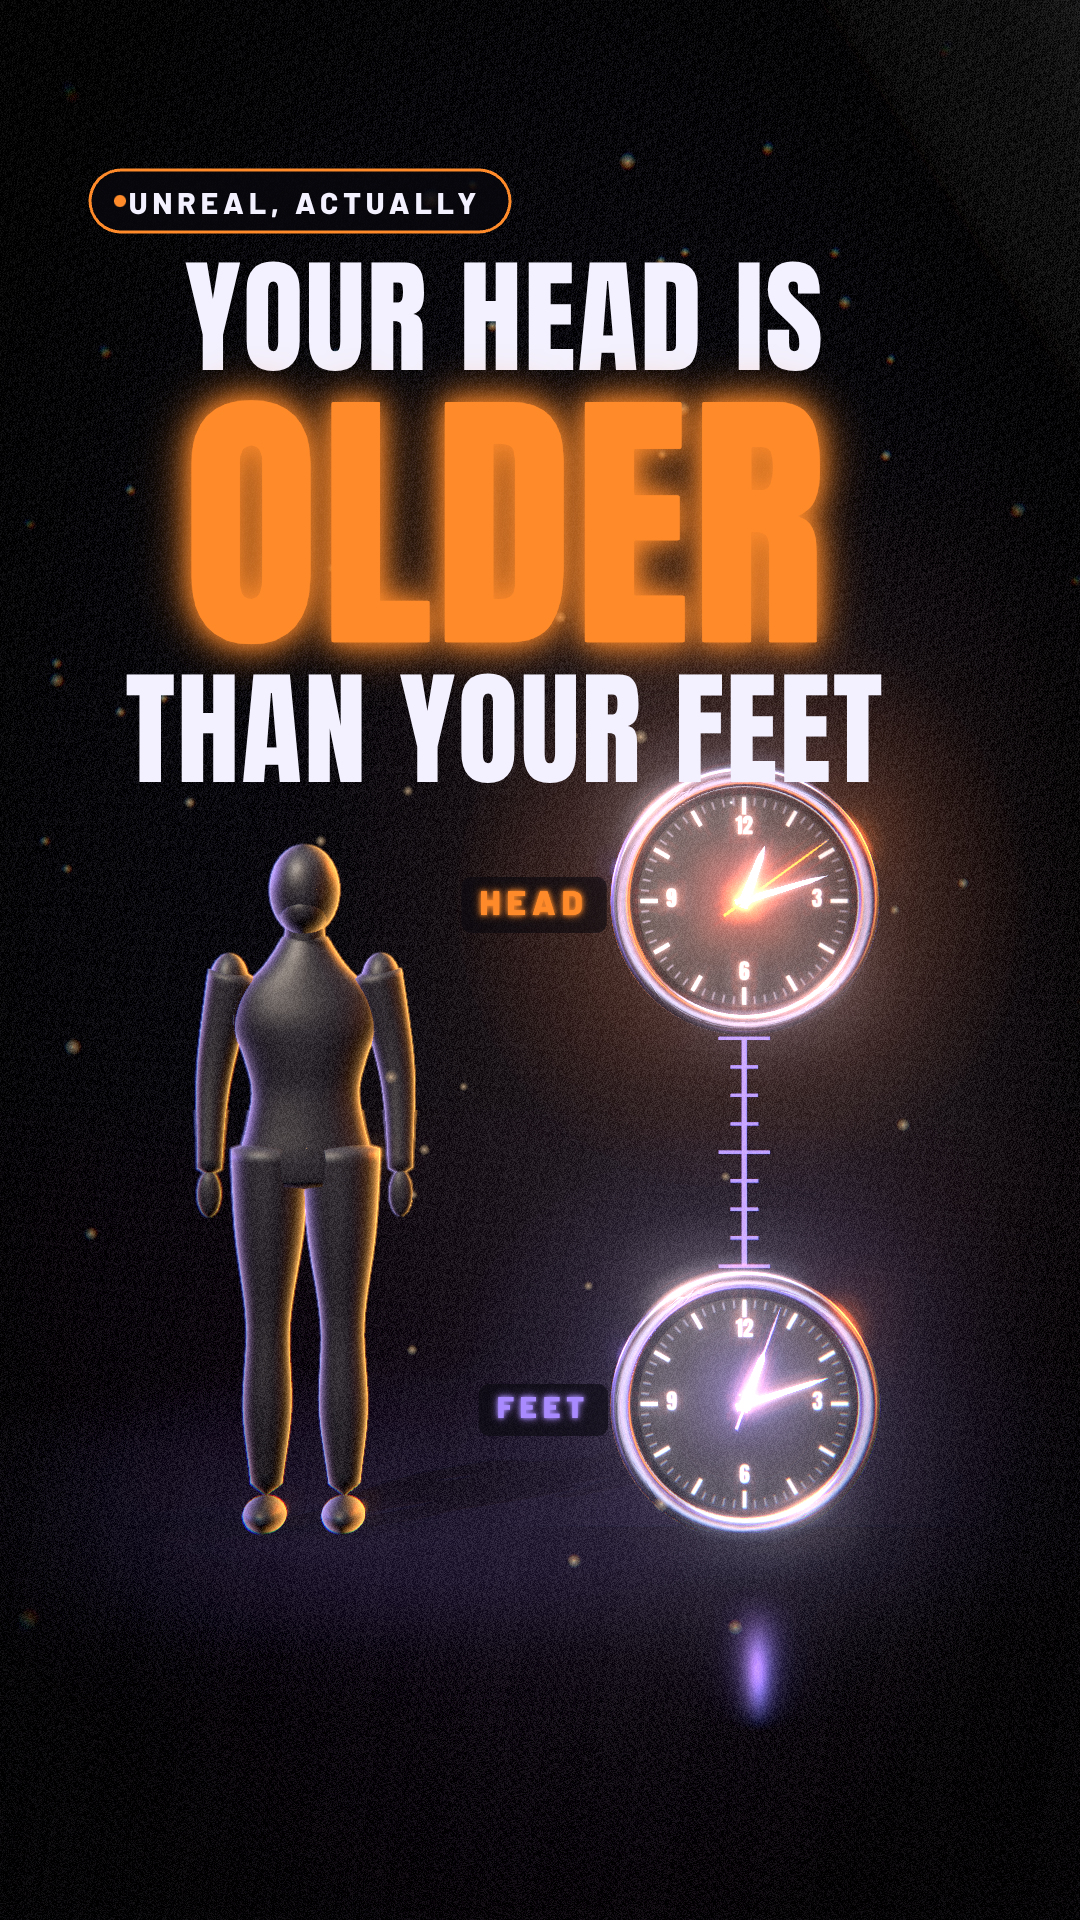
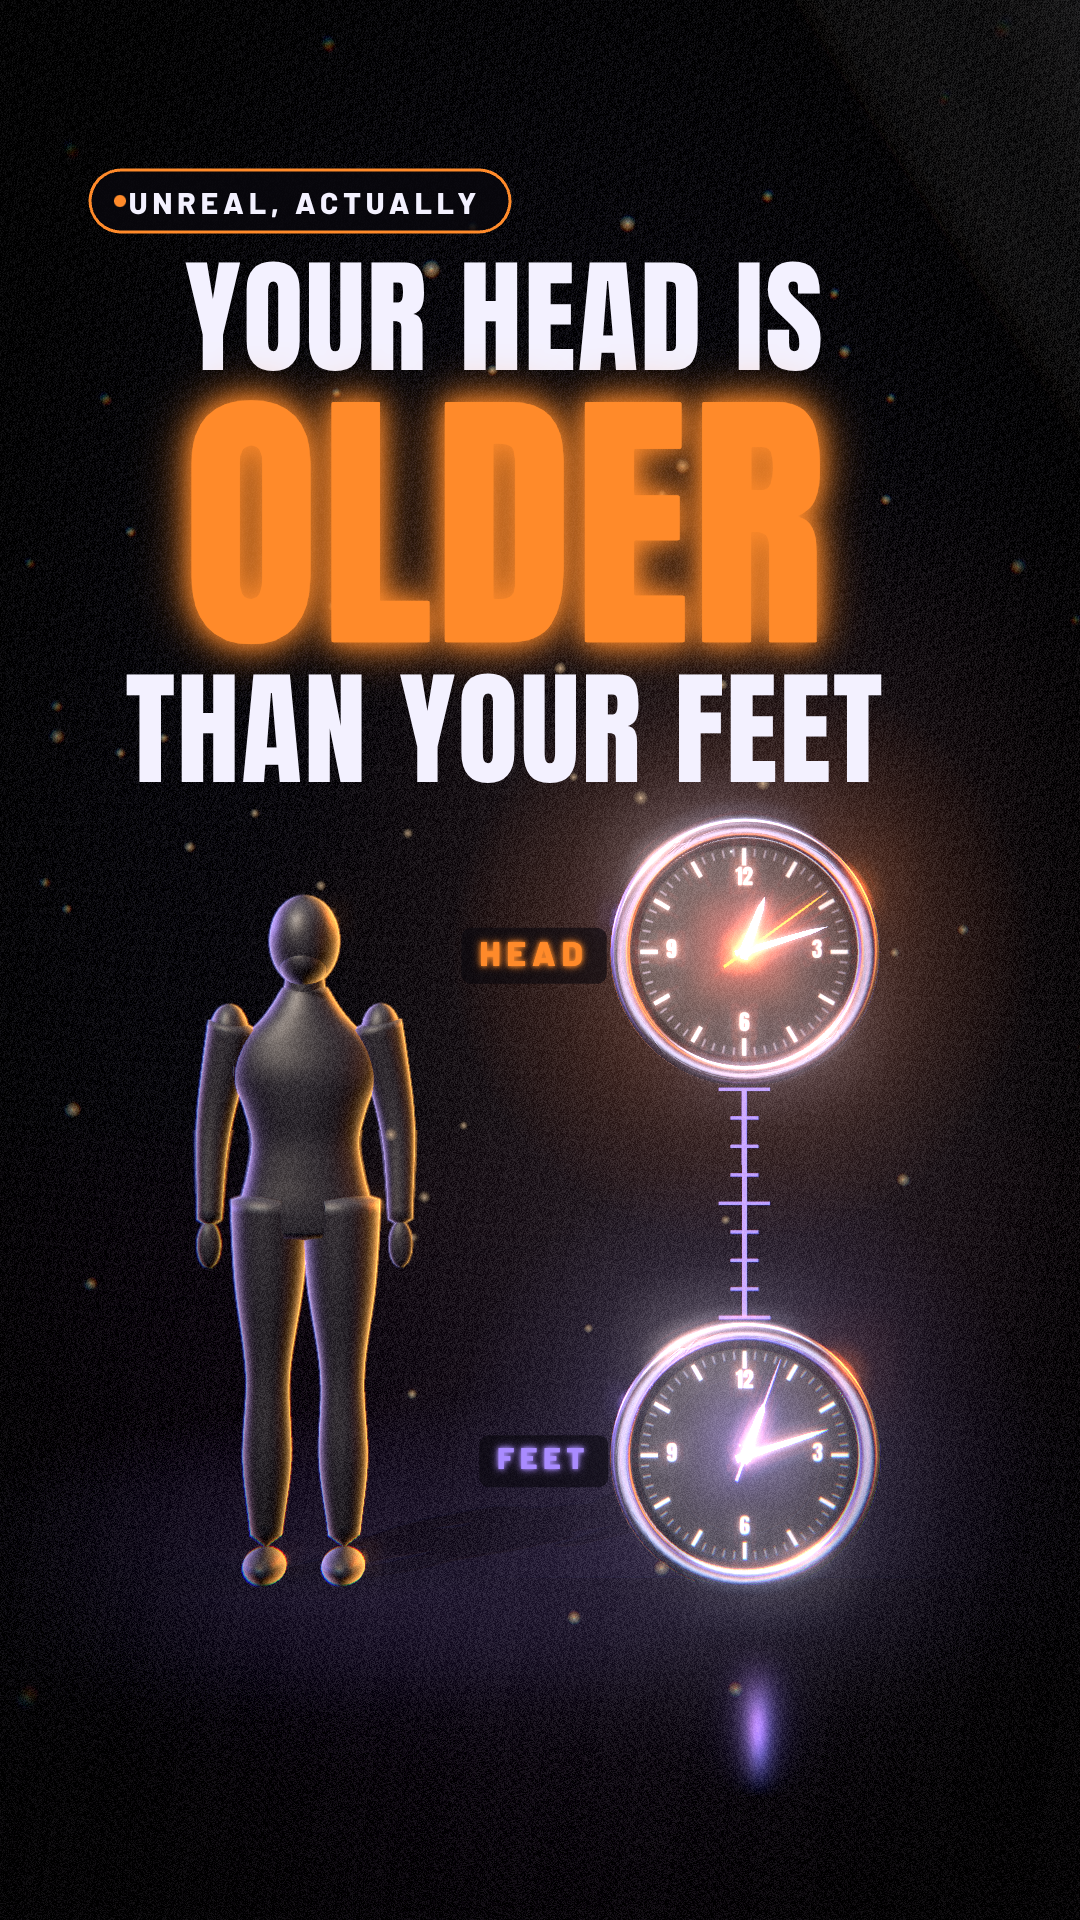
ep01 round 3: night Earth, optical-clock bench, solid figure, foil satellite + phone in hand, caption/hedge fixes
Claude-Session: https://claude.ai/code/session_01NX6jW17pPmMZCgXgFXca4U

Changed region(s): [[0.4278, 0.375, 0.825, 0.9375], [0.1528, 0.4375, 0.3972, 0.8438], [0.0306, 0.3438, 0.0611, 0.375]]

diff --git a/channels/unreal-actually/ep01-head-older-than-feet/scene.js b/channels/unreal-actually/ep01-head-older-than-feet/scene.js
@@ -418,7 +418,7 @@ function setShot(sh, path, t, tt) {
   sh.update(t);
 }
 window.__seek = function (t) {
-  if (COVER) { setShot(A, [{ t: 0, p: [.55, 1.35, 8.2], l: [.6, 1.45, 0], f: 60, fp: [.6, 1.2, 0], ap: .0002 }], 0.5); HC.userData.set(21.2, { angle: 54, hot: 1.4 }); FC.userData.set(15, { angle: 20, hot: .8 });
+  if (COVER) { setShot(A, [{ t: 0, p: [.55, 1.45, 8.2], l: [.6, 1.58, 0], f: 60, fp: [.6, 1.2, 0], ap: .0002 }], 0.5); HC.userData.set(21.2, { angle: 54, hot: 1.4 }); FC.userData.set(15, { angle: 20, hot: .8 });
     A.A = { head: anchorOf(HC, .3), feet: anchorOf(FC, .3) }; filmPass.uniforms.time.value = .5; composer.render(); ov.drawCover(A.A); return; }
   const shk = shakeAt(t);
   let cur = SH[SH.length - 1]; for (const s of SH) if (t >= s[0] && t < s[1]) { cur = s; break; }
